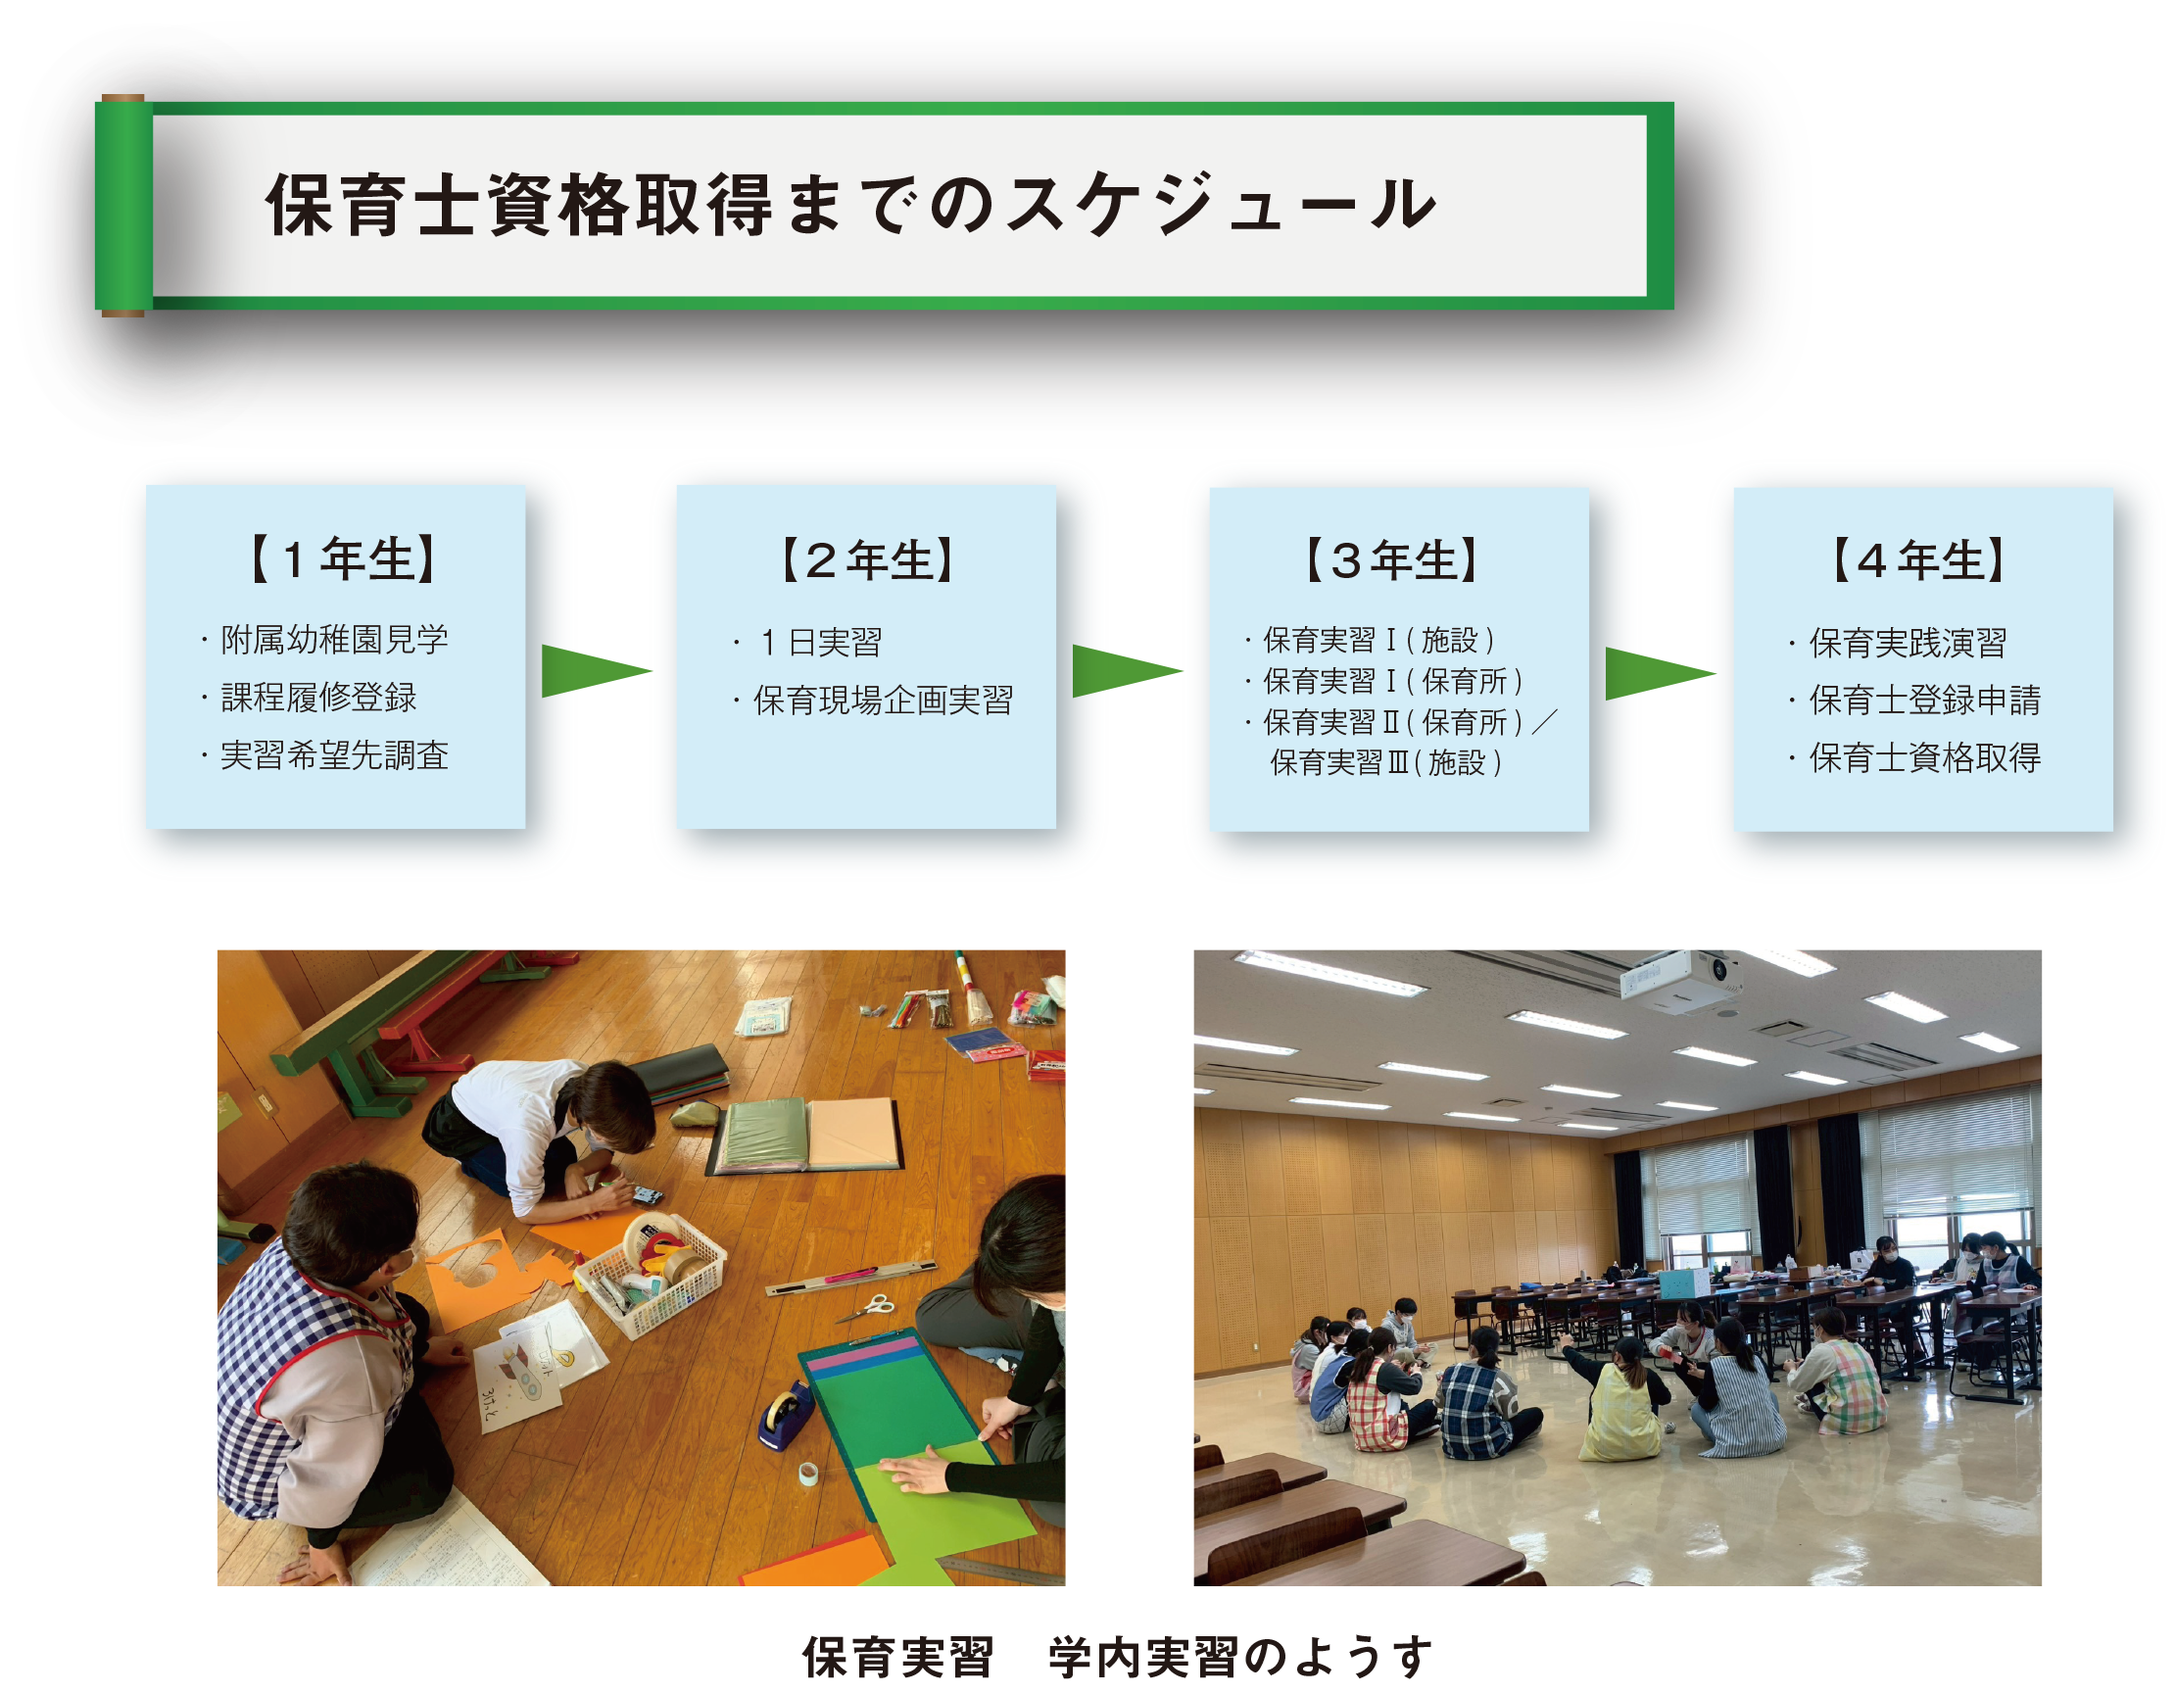
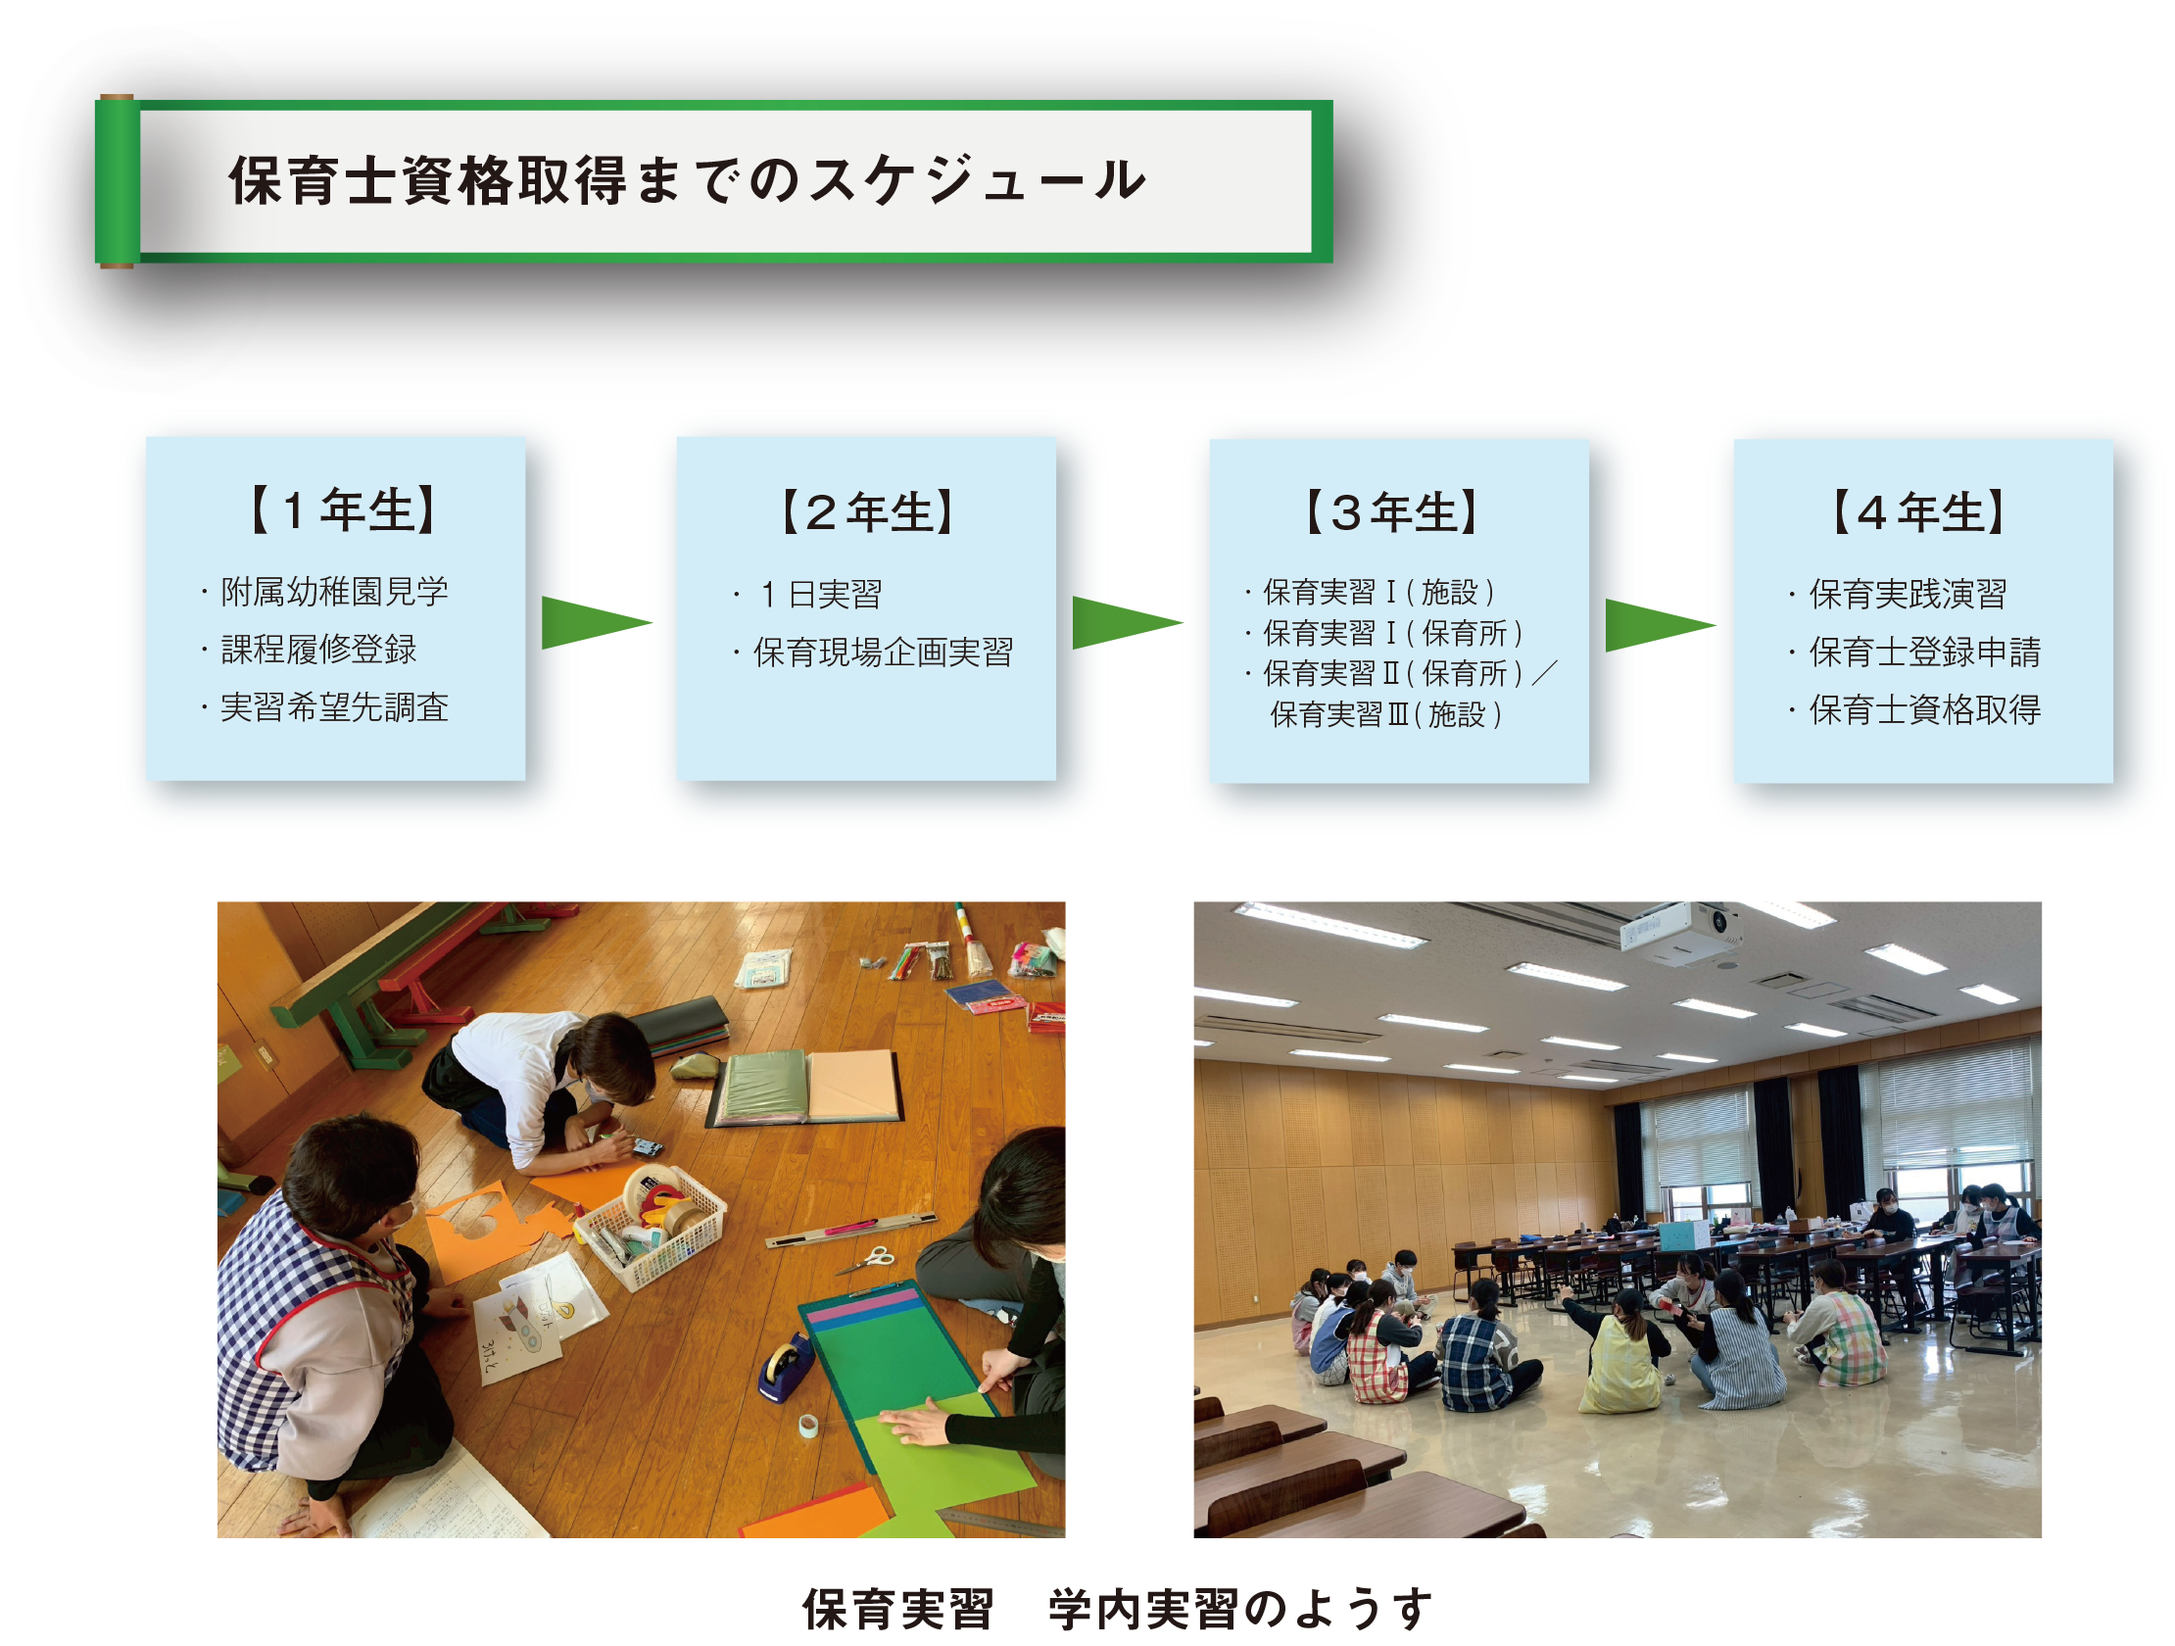
Add files via upload

diff --git a/hoiku.html b/hoiku.html
@@ -19,7 +19,7 @@
 
 <p>本学では幼稚園教諭一種免許状・小学校教諭一種免許状・保育士資格の３免許資格を卒業と同時に取得することができます。</p>
 
-<img src="保育実習.png" width="1000" height="778" vspace=20>
+<img src="保育実習.png" width="1000" height=762" vspace=20>
 
 
 <p><div style="border: 3px solid; padding: 9px 9px 9px 9px; background-color: #ffff00;width: 150px; border-radius:5px;">
@@ -67,5 +67,4 @@
 <a href="index.html"><p><h3>top</h3></p></a>
 
 </body bgcolor="#ddffbb">
-
 </html>
